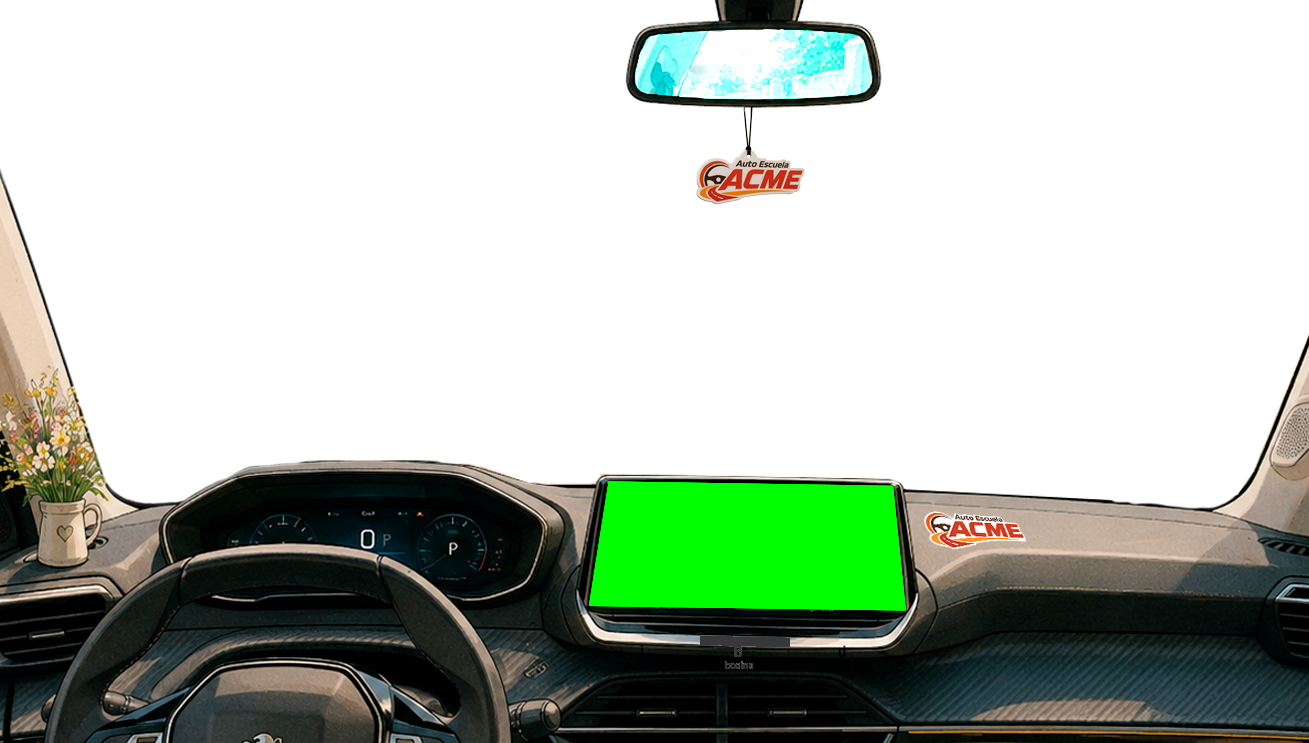
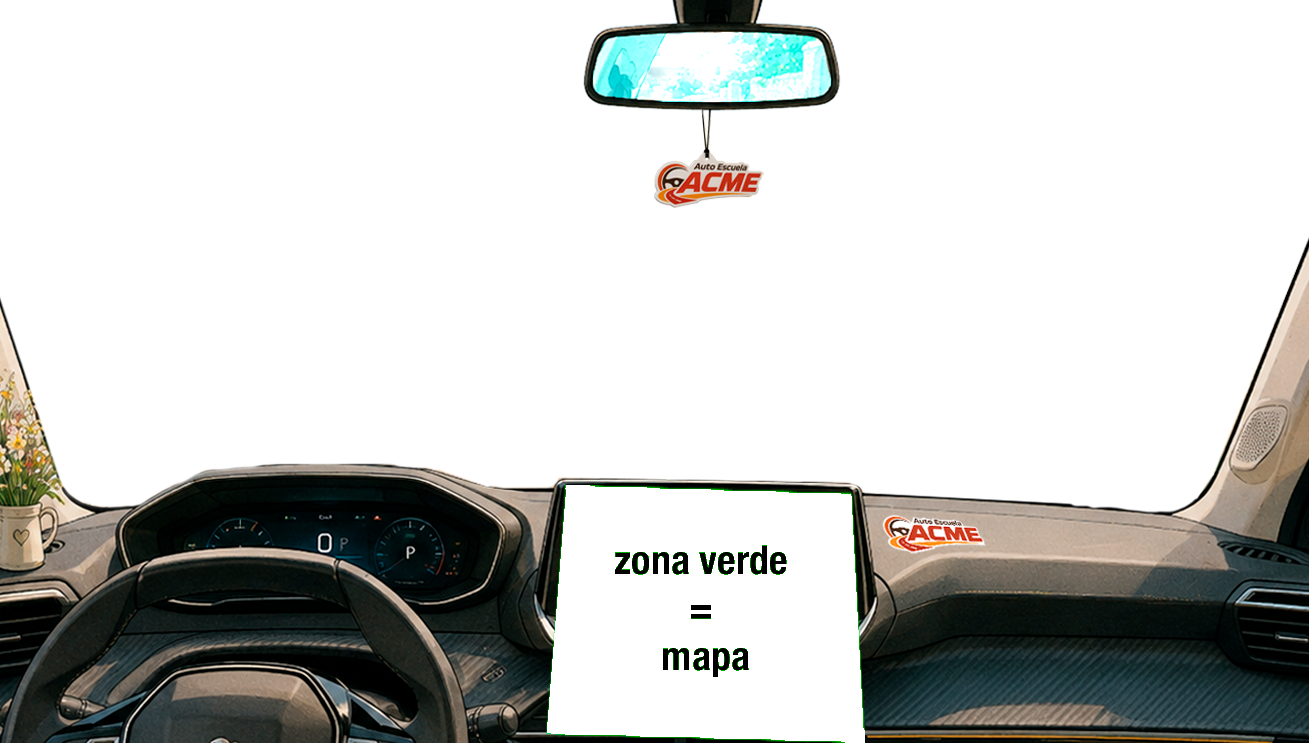
Fix mobile cockpit map layout

Changed region(s): [[0.0, 0.2476, 1.0, 1.0], [0.4278, 0.0, 0.6723, 0.2786], [0.7945, 0.8668, 0.8556, 0.8977]]

diff --git a/styles.css b/styles.css
@@ -3699,10 +3699,11 @@ body.app-open.app-theory .theory-dashboard {
 
   body.app-open.app-practice .cockpit-frame-mobile {
     display: block;
-    opacity: 0.92;
-    clip-path: inset(58% 0 0 0);
-    transform: translateY(16%) scale(1.05);
-    transform-origin: center bottom;
+    opacity: 1;
+    object-fit: fill;
+    clip-path: none;
+    transform: none;
+    transform-origin: center center;
   }
 
   body.app-open.app-practice .sunglasses-filter {
@@ -3711,12 +3712,30 @@ body.app-open.app-theory .theory-dashboard {
 
   body.app-open.app-practice .gps-map-slot {
     display: block;
-    left: 44.98% !important;
-    top: 64.7% !important;
-    width: 24.24% !important;
-    height: 17.5% !important;
-    transform: translateY(16%) scale(1.05) !important;
-    transform-origin: center bottom;
+    z-index: 5;
+    left: 41.79% !important;
+    top: 65.28% !important;
+    width: 24.3% !important;
+    height: 34.72% !important;
+    transform: none !important;
+    border-radius: 0;
+    clip-path: polygon(6% 2%, 96% 2%, 100% 100%, 0 100%);
+    background: transparent;
+    box-shadow: none;
+    pointer-events: auto;
+    touch-action: auto;
+  }
+
+  body.app-open.app-practice .gps-map-slot::before,
+  body.app-open.app-practice .gps-map-slot::after {
+    display: none;
+  }
+
+  body.app-open.app-practice .gps-map-slot #routeMapCanvas {
+    inset: 0 !important;
+    width: 100% !important;
+    height: 100% !important;
+    border-radius: 0;
   }
 
   body.app-open.app-practice .viewport.sunglasses-on .sunglasses-filter {

diff --git a/index.html b/index.html
@@ -31,7 +31,7 @@
       href="https://fonts.googleapis.com/css2?family=Outfit:wght@400;500;600;700;800&family=Space+Grotesk:wght@500;700&family=Press+Start+2P&display=swap"
       rel="stylesheet"
     />
-    <link rel="stylesheet" href="./styles.css?v=20260513i" />
+    <link rel="stylesheet" href="./styles.css?v=20260513j" />
   </head>
   <body class="app-closed">
     <div class="noise"></div>
@@ -295,7 +295,7 @@
 
             <img
               class="cockpit-frame-mobile"
-              src="./assets/car-cockpit-mobile.png?v=20260513i"
+              src="./assets/car-cockpit-mobile.png?v=20260513j"
               alt=""
               aria-hidden="true"
             />
@@ -676,7 +676,7 @@
     <script src="./circuits/palermo-comuna14.js?v=20260428f"></script>
     <script src="./circuits/chacarita-comuna15.js?v=20260428f"></script>
     <script src="./assistant-data.js?v=20260429a"></script>
-    <script src="./script.js?v=20260513i"></script>
+    <script src="./script.js?v=20260513j"></script>
     <script src="./theory-data.js?v=20260428f"></script>
     <script src="./theory.js?v=20260513g"></script>
   </body>

diff --git a/script.js b/script.js
@@ -420,6 +420,9 @@ function handleViewportPointerDown(event) {
   if (!isMobileTapControlSurface() || event.pointerType === "mouse") {
     return;
   }
+  if (event.target?.closest?.(".gps-map-slot")) {
+    return;
+  }
 
   mobileTapControls.pointerStart = {
     x: event.clientX,
@@ -430,6 +433,10 @@ function handleViewportPointerDown(event) {
 
 function handleViewportPointerUp(event) {
   if (!isMobileTapControlSurface() || event.pointerType === "mouse" || !mobileTapControls.pointerStart) {
+    return;
+  }
+  if (event.target?.closest?.(".gps-map-slot")) {
+    mobileTapControls.pointerStart = null;
     return;
   }
 

diff --git a/mapas-recorridos.html b/mapas-recorridos.html
@@ -15,7 +15,7 @@
       href="https://fonts.googleapis.com/css2?family=Outfit:wght@400;500;600;700;800&family=Space+Grotesk:wght@500;700&display=swap"
       rel="stylesheet"
     />
-    <link rel="stylesheet" href="./styles.css?v=20260513i" />
+    <link rel="stylesheet" href="./styles.css?v=20260513j" />
   </head>
   <body class="route-atlas-page">
     <main class="route-atlas-shell">
